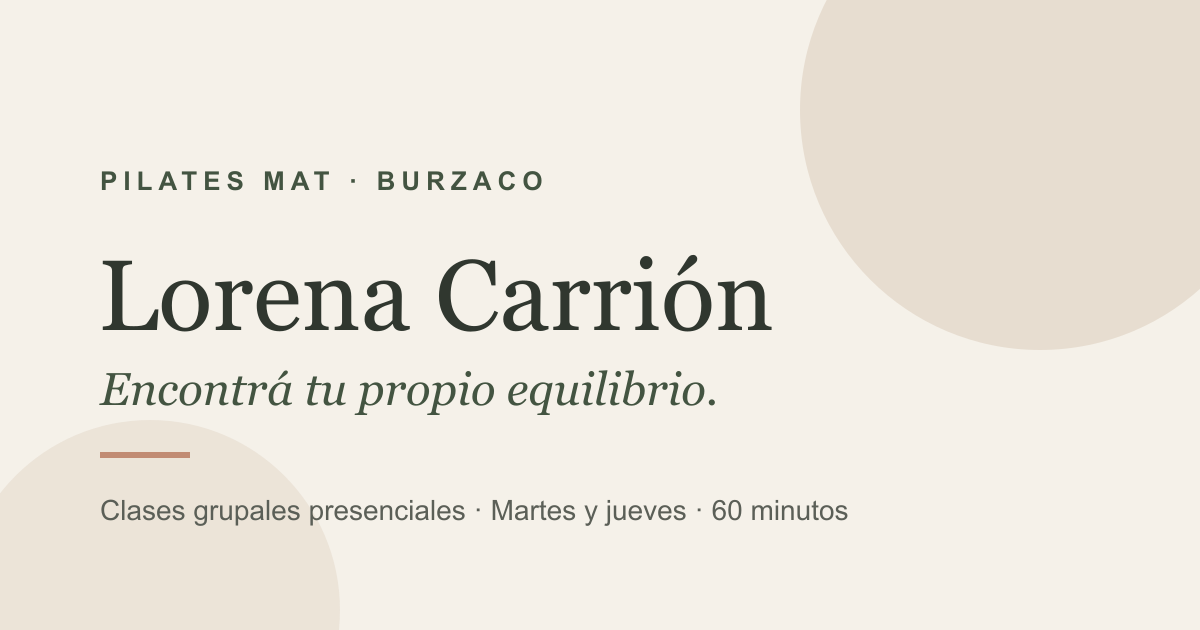
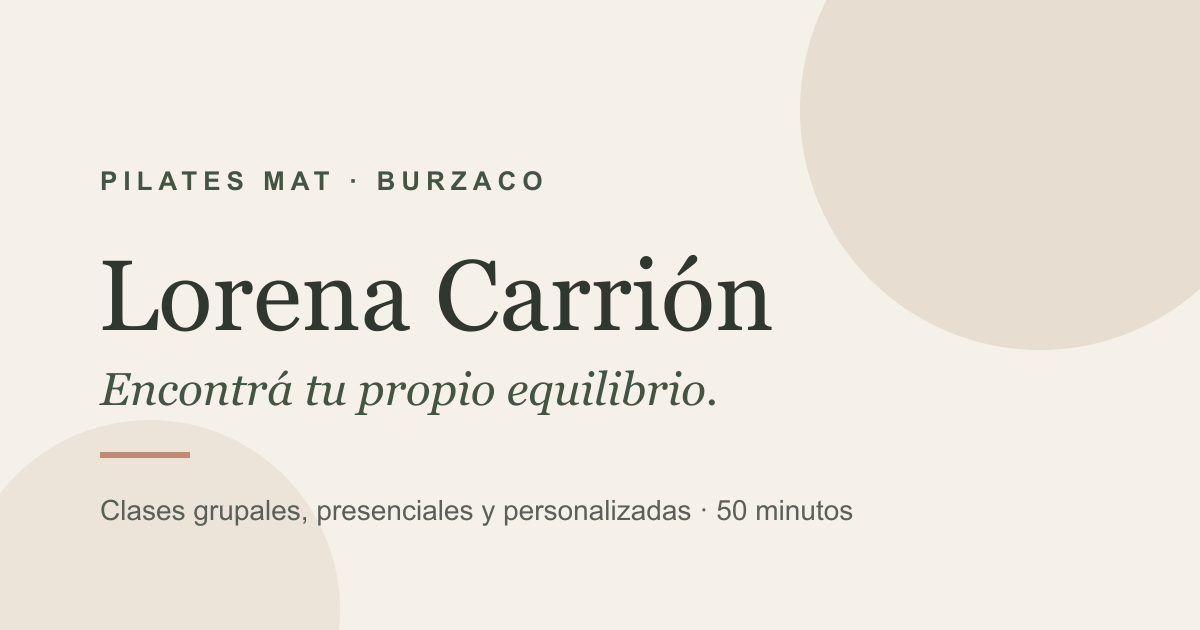
feat: refresh copy and social links (personalized classes, 50 min, Instagram)
Copy now reads 'clases grupales, presenciales y personalizadas'; removed 'martes y jueves'; duration 60 -> 50 min; Instagram profile set in site data; regenerated og-image.

Changed region(s): [[0.2467, 0.7841, 0.7092, 0.8444]]

diff --git a/lorena-pilates/src/data/site.ts b/lorena-pilates/src/data/site.ts
@@ -1,15 +1,14 @@
 export const site = {
   name: "Lorena Carrión",
   profession: "Instructora internacional de Pilates Mat y Reformer",
-  service: "Pilates Mat · clases grupales presenciales",
+  service: "Pilates Mat · clases grupales, presenciales y personalizadas",
   location: "Burzaco, Buenos Aires",
   area: "Burzaco y Adrogué",
-  days: "Martes y jueves",
-  duration: "60 minutos",
+  duration: "50 minutos",
   paymentMethods: "Efectivo o transferencia",
   // PENDIENTE: confirmar que este número tiene WhatsApp antes de publicar.
   whatsappNumber: "5491161775720",
-  instagramUrl: "", // PENDIENTE: agregar URL cuando esté disponible.
+  instagramUrl: "https://www.instagram.com/pilates_by_lore/",
   studioAddress: "", // PENDIENTE: dirección o indicaciones exactas.
   scheduleDetails: "", // PENDIENTE: horarios de cada turno.
   priceDetails: "", // PENDIENTE: importes y modalidad de pago.

diff --git a/lorena-pilates/README.md b/lorena-pilates/README.md
@@ -1,6 +1,6 @@
 # Lorena Carrión · Pilates Mat
 
-Sitio de presentación estático para clases grupales presenciales de Pilates Mat en Burzaco, Buenos Aires.
+Sitio de presentación estático para clases grupales, presenciales y personalizadas de Pilates Mat en Burzaco, Buenos Aires.
 
 ## Stack
 - Astro
@@ -31,15 +31,17 @@ La imagen de Open Graph (`public/og-image.png`) se regenera con `npm run og` a p
 
 ## Datos pendientes antes de publicar
 Buscar `PENDIENTE:` en el proyecto. No publicar hasta revisar:
-- Horarios exactos de martes y jueves
+- Horarios exactos y disponibilidad de cada grupo
 - Dirección exacta o indicaciones del estudio en Burzaco
-- Enlace de Instagram
 - Política de precios: se acepta efectivo y transferencia, pero faltan los importes y modalidad (por clase/abono)
 - Confirmar que la fotografía de portada representa a Lorena o reemplazarla por una foto propia autorizada
 
 ## WhatsApp
 El teléfono provisto se normaliza como `5491161775720` para el enlace internacional de WhatsApp. Confirmar que ese número tiene WhatsApp y que está escrito correctamente antes de publicar.
 El enlace incluye un mensaje precargado, no envía nada automáticamente.
+
+## Instagram
+Perfil: `https://www.instagram.com/pilates_by_lore/` (configurado en `src/data/site.ts`).
 
 ## Repositorio
 
@@ -61,9 +63,9 @@ La aplicación vive en la subcarpeta `lorena-pilates/` dentro del repositorio.
 7. Cuando confirmes la URL final, verificá que coincida con `site` en `astro.config.mjs` (hoy `https://lorena-pilates.vercel.app`). Si difiere, actualizala para que `canonical`, `sitemap` y `og:image` apunten al dominio correcto.
 
 ## Antes del lanzamiento
-- [ ] Completar horarios exactos.
+- [ ] Completar horarios exactos y disponibilidad.
 - [ ] Confirmar dirección y cómo llegar, sin publicar domicilio privado sin autorización.
-- [ ] Añadir Instagram correcto cuando exista/esté confirmado.
+- [x] Instagram agregado (`https://www.instagram.com/pilates_by_lore/`).
 - [ ] Sustituir imágenes de referencia por fotos propias autorizadas.
 - [ ] Verificar WhatsApp desde un teléfono.
 - [ ] Revisar texto, contraste, móvil y enlaces.
